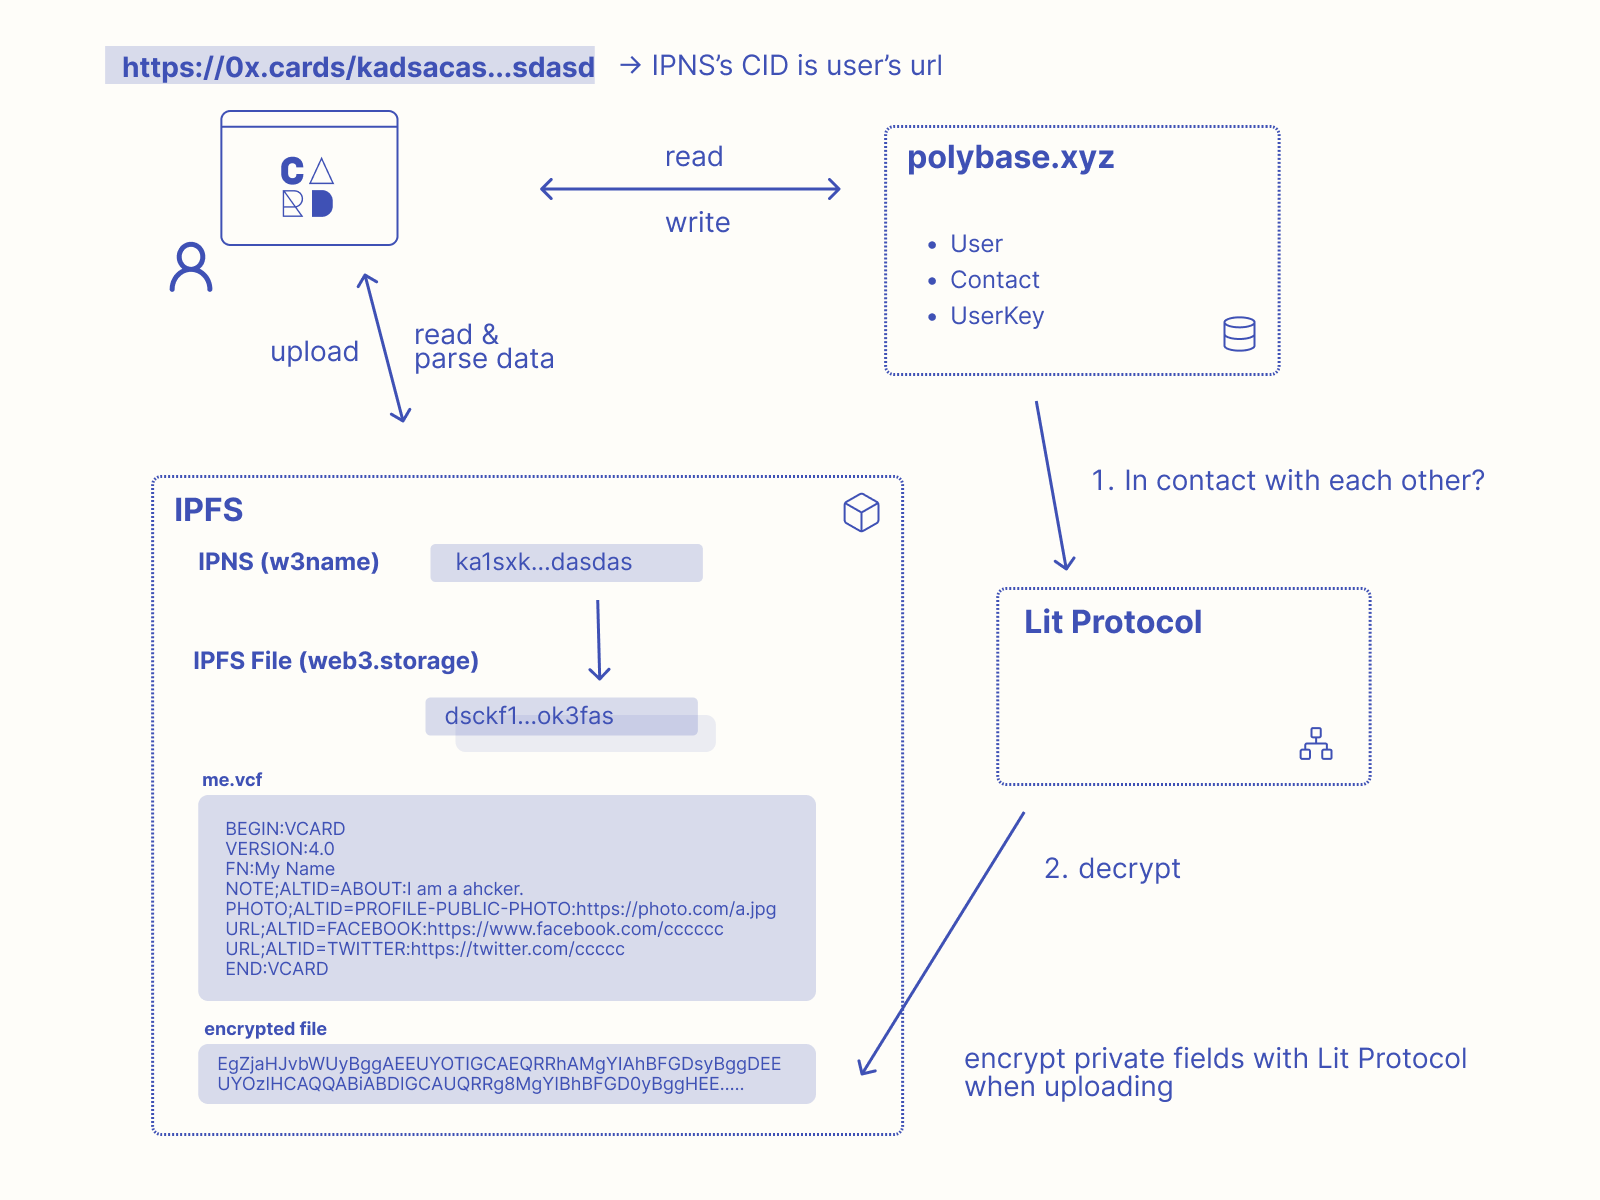
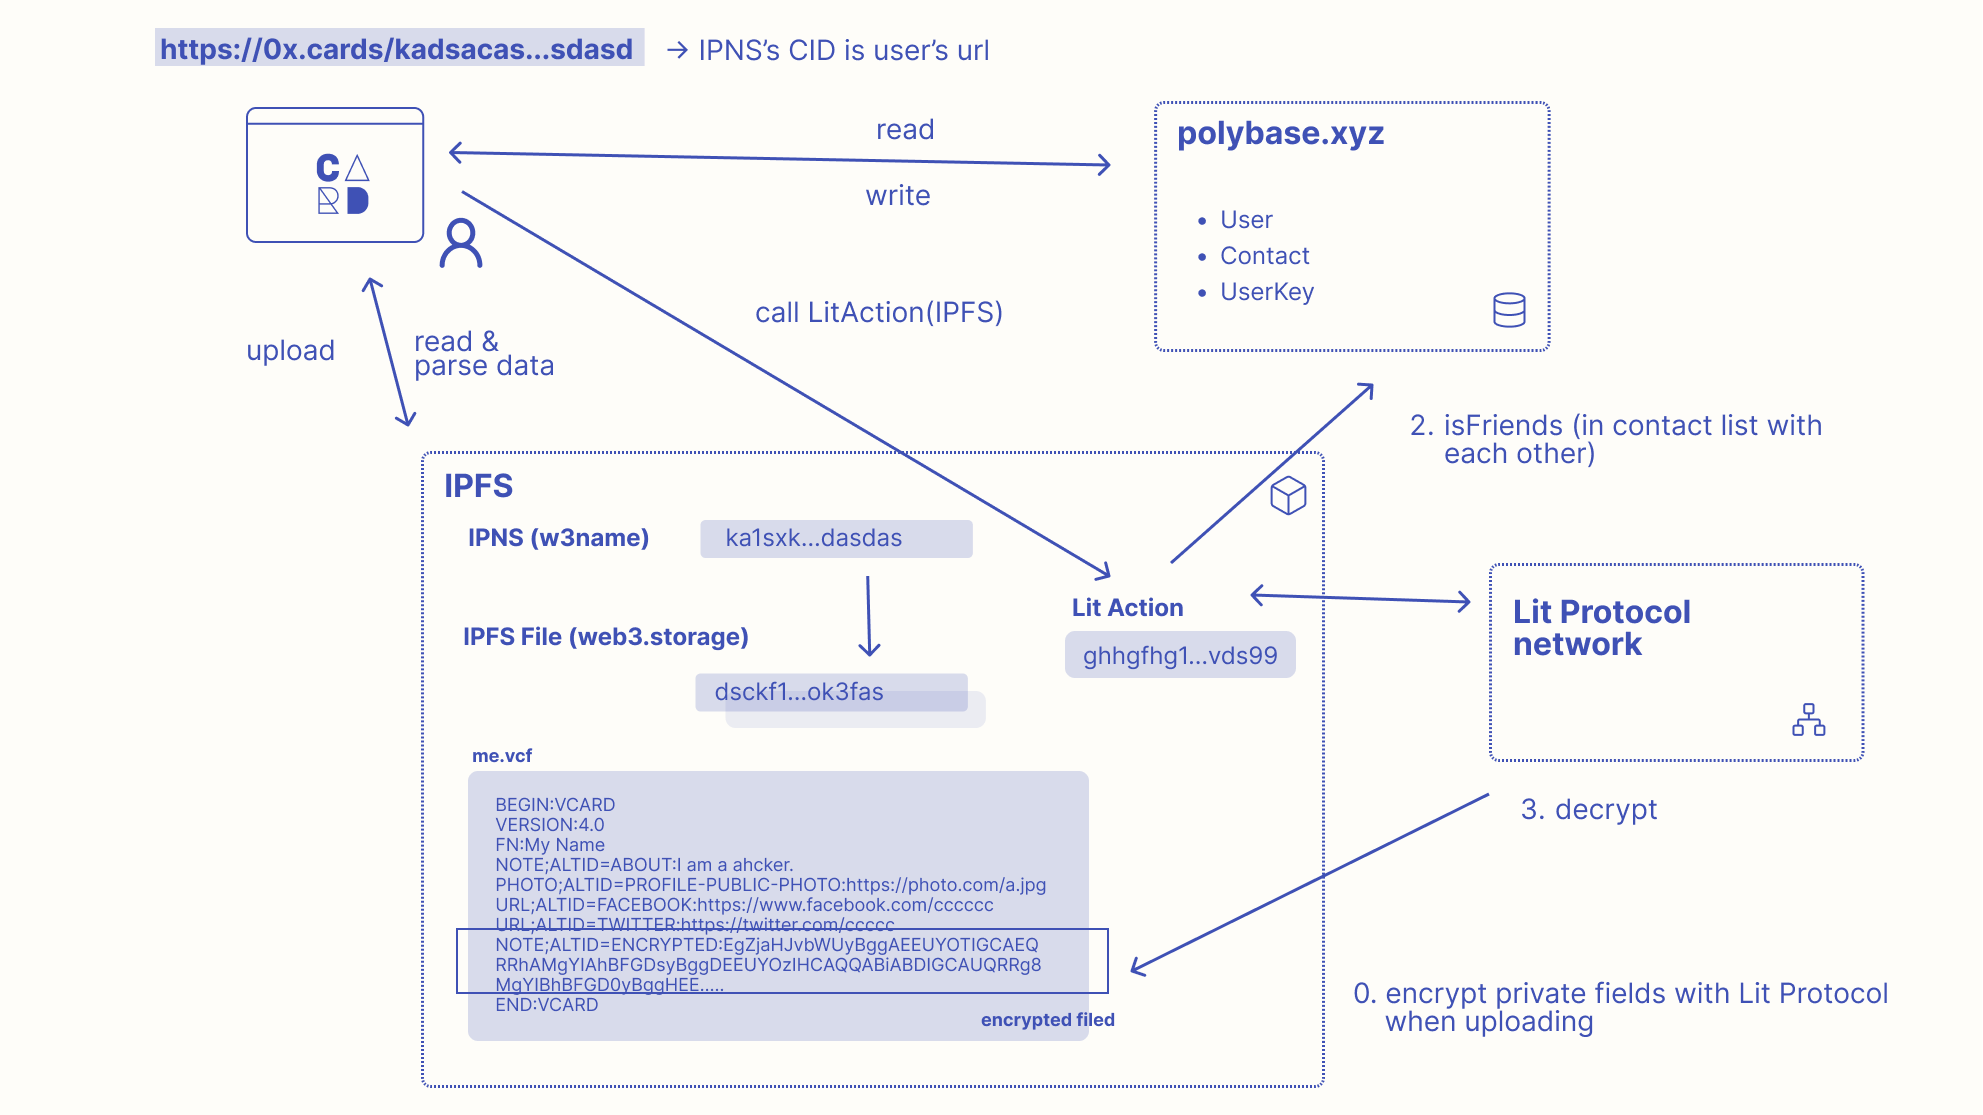
lit action

diff --git a/apps/web/lib/db.ts b/apps/web/lib/db.ts
@@ -4,30 +4,35 @@ import { db } from '@/components/PolybaseWrapper'
 // collection User {
 //   id: string;
 //   cid: string;
-//   name?: string;
+//   name: string;
 //   photo1?: string;
+//   contacts?: string[];
 //   publicKey: PublicKey;
 //
-// constructor (id: string, cid: string, name: string, photo1: string) {
-//   this.id = id;
-//   this.cid = cid;
-//   this.name = name;
-//   if (photo1) {
-//     this.photo1 = photo1;
+//   constructor (id: string, cid: string, name: string, photo1: string) {
+//     this.id = id;
+//     this.cid = cid;
+//     this.name = name;
+//     if (photo1) {
+//       this.photo1 = photo1;
+//     }
+//     this.publicKey = ctx.publicKey;
 //   }
-//   this.publicKey = ctx.publicKey;
-// }
+
+//   setUser (cid: string, name: string, photo1: string) {
+//     if (ctx.publicKey != this.publicKey) {
+//       error('You are not the creator of this record.');
+//     }
+//     this.cid = cid;
+//     this.name = name;
+//     if (photo1) {
+//       this.photo1 = photo1;
+//     }
+//   }
 //
-// setUser (cid: string, name: string, photo1: string) {
-//   if (ctx.publicKey != this.publicKey) {
-//     error('You are not the creator of this record.');
+//   addContact (targetCid: string) {
+//     this.contacts.push(targetCid);
 //   }
-//   this.cid = cid;
-//   this.name = name;
-//   if (photo1) {
-//     this.photo1 = photo1;
-//   }
-// }
 //
 //   del () {
 //     if (ctx.publicKey != this.publicKey) {
@@ -36,6 +41,7 @@ import { db } from '@/components/PolybaseWrapper'
 //     selfdestruct();
 //   }
 // }
+
 const userRef = db.collection('User')
 
 export const getUser = async (id: string): Promise<any> => {
@@ -61,35 +67,12 @@ export const updateUser = async (
   await userRef.record(id).call('setUser', [cid, name, photo1])
 }
 
-// @public
-// collection Contact {
-//   id: string;
-//   cid: string;
-//   targetCid: string;
-//   publicKey: PublicKey;
-//
-//   constructor (cid: string, targetCid: string) {
-//     this.id = cid + '-' +  targetCid;
-//     this.cid = cid;
-//     this.targetCid = targetCid;
-//     this.publicKey = ctx.publicKey;
-//   }
-//
-//   del () {
-//     if (ctx.publicKey != this.publicKey) {
-//       error('You are not the creator of this record.');
-//     }
-//     selfdestruct();
-//   }
-// }
-const contactRef = db.collection('Contact')
-
-export const addUserContact = async (cid: string, targetCid: string) => {
-  await contactRef.create([cid, targetCid])
+export const addUserContact = async (id: string, targetCid: string) => {
+  await userRef.record(id).call('addContact', [targetCid])
 }
 
-export const removeUserContact = async (cid: string, targetCid: string) => {
-  await contactRef.record(`${cid}-${targetCid}`).call('del')
+export const removeUserContact = async (id: string, targetCid: string) => {
+  await userRef.record(id).call('removeContact', [targetCid])
 }
 
 // collection UserKey {

diff --git a/apps/web/components/pages/Settings.tsx b/apps/web/components/pages/Settings.tsx
@@ -11,6 +11,7 @@ import { db } from '@/components/PolybaseWrapper'
 import { sessionAtom } from '@/lib/atoms'
 import { ChevronRight, LogOut, Package } from 'lucide-react'
 import useSession from '@/hooks/useSession'
+import { isFriends } from '@0xcard/lit-action/IPFS.js'
 
 export default function SettingsPage() {
   const [isLoggedIn, loading] = useIsAuthenticated()
@@ -31,6 +32,30 @@ export default function SettingsPage() {
     await auth?.signOut()
     resetSession()
     router.push('/')
+  }
+
+  const test = async () => {
+    const userId = '0xfecdee466589287071b62a05f364983c773c422e'
+    const cid = 'k51qzi5uqu5djs1gnuskf1ybn3okcx4dgkj785pw86q3ofxqhpnzhi1vf2dt2k'
+    const targetUserId =
[1 lines of base64/hex data omitted]
+    const targetCid =
+      'k51qzi5uqu5dgfzkz74vel5diqhl3d1wza9talhf56onp3788xjmyj1ua4f5dw'
+
+    const res = await isFriends(userId, targetUserId, cid, targetCid)
+    console.log('isFriends: ', res)
+  }
+
+  const setContact = async () => {
+    const recordData = await userRef
+      .record(state.userId)
+      .call('setContacts', [
+        [
+          'k51qzi5uqu5djs1gnuskf1ybn3okcx4dgkj785pw86q3ofxqhpnzhi1vf2dt2k',
+          'k51qzi5uqu5dgfzkz74vel5diqhl3d1wza9talhf56onp3788xjmyj1ua4f5dw',
+        ],
+      ])
+    console.log('recordData:  ', recordData)
   }
 
   const List = ({ children }) => (
@@ -87,16 +112,35 @@ export default function SettingsPage() {
                   </span>
                 </button>
               </List>
-
+              <p className="mt-20 text-center">Dev Menu</p>
               <List>
                 <button
                   className="pl-6 pr-5 py-5 w-full flex justify-between"
                   onClick={() => deleteUser()}
                 >
-                  <span className="flex items-center">
-                    <LogOut className="mr-3" />
-                    del
+                  <span className="flex items-center">del</span>
+                  <span>
+                    <ChevronRight />
                   </span>
+                </button>
+              </List>
+              <List>
+                <button
+                  className="pl-6 pr-5 py-5 w-full flex justify-between"
+                  onClick={() => setContact()}
+                >
+                  <span className="flex items-center">Set Contacts</span>
+                  <span>
+                    <ChevronRight />
+                  </span>
+                </button>
+              </List>
+              <List>
+                <button
+                  className="pl-6 pr-5 py-5 w-full flex justify-between"
+                  onClick={() => test()}
+                >
+                  <span className="flex items-center">LitAction</span>
                   <span>
                     <ChevronRight />
                   </span>

diff --git a/apps/web/lib/lit.ts b/apps/web/lib/lit.ts
@@ -3,14 +3,20 @@ import * as LitJsSdk from '@lit-protocol/lit-node-client'
 const chain = 'ethereum'
 
 // Conditions of users with entered did and mutual followings.
-const createAccessConditions = (cid: string, targetCid: string) => {
+const createAccessConditions = (
+  userId: string,
+  targetUserId: string,
+  cid: string,
+  targetCid: string
+) => {
   return [
     {
-      contractAddress: 'ipfs://aaaaa',
+      contractAddress:
+        'https://bafybeiengmxblvgc7byhiksb3ykdnji3px22j4fjglya3lhw6zzua2z4vu.ipfs.w3s.link/IPFS.js',
       standardContractType: 'LitAction',
       chain,
       method: 'isFriends',
-      parameters: [cid, targetCid],
+      parameters: [userId, targetUserId, cid, targetCid],
       returnValueTest: {
         comparator: '=',
         value: 'true',
@@ -21,6 +27,8 @@ const createAccessConditions = (cid: string, targetCid: string) => {
 
 // return encryptedSymmetricKey, EncryptedString
 export const encryptAndSave = async (
+  userId: string,
+  targetUserId: string,
   cid: string,
   targetCid: string,
   input: string
@@ -30,7 +38,12 @@ export const encryptAndSave = async (
   const client = new LitJsSdk.LitNodeClient({ litNetwork: 'serrano' })
   await client.connect()
   const encryptedSymmetricKey = await client.saveEncryptionKey({
-    accessControlConditions: createAccessConditions(cid, targetCid),
+    accessControlConditions: createAccessConditions(
+      userId,
+      targetUserId,
+      cid,
+      targetCid
+    ),
     symmetricKey,
     authSig,
     chain,
@@ -52,7 +65,12 @@ export const decryptAndRead = async (
   const client = new LitJsSdk.LitNodeClient({ litNetwork: 'serrano' })
   await client.connect()
   const symmetricKey = await client.getEncryptionKey({
-    accessControlConditions: createAccessConditions(cid, targetCid),
+    accessControlConditions: createAccessConditions(
+      userId,
+      targetUserId,
+      cid,
+      targetCid
+    ),
     toDecrypt: encryptedSymmetricKey,
     chain,
     authSig,

diff --git a/packages/litAction/IPFS.js b/packages/litAction/IPFS.js
@@ -1,18 +1,26 @@
-export const isFriends = async (cid, targetCid) => {
-  const cid1 = cid + '-' + targetCid
-  const cid2 = targetCid + '-' + cid
+export const isFriends = async (userId, targetUserId, cid, targetCid) => {
+  const urlBase =
+    'https://testnet.polybase.xyz/v0/collections/pk%2F0x78270b82619ae45a456613d40b07d297bb50b15fa7bad88a2eab0335fa98a82fa7f206c3c6f0ebfc5a250b2d9803935dec4eebf69eedfb1cbd28bfe7bd006711%2F0xcard%2FUser/records/'
   try {
-    const url1 =
-      'https://testnet.polybase.xyz/v0/collections/Collection/records/pk%2F0x78270b82619ae45a456613d40b07d297bb50b15fa7bad88a2eab0335fa98a82fa7f206c3c6f0ebfc5a250b2d9803935dec4eebf69eedfb1cbd28bfe7bd006711%2F0xCARD%2FContact%2Frecords%2F' +
-      cid1
-    const url2 =
-      'https://testnet.polybase.xyz/v0/collections/Collection/records/pk%2F0x78270b82619ae45a456613d40b07d297bb50b15fa7bad88a2eab0335fa98a82fa7f206c3c6f0ebfc5a250b2d9803935dec4eebf69eedfb1cbd28bfe7bd006711%2F0xCARD%2FContact%2Frecords%2F' +
-      cid2
+    const url1 = urlBase + userId
+    const url2 = urlBase + targetUserId
+    console.log('urls: ', url1, url2)
     const [resp1, resp2] = await Promise.all([
       await fetch(url1).then(response => response.json()),
       await fetch(url2).then(response => response.json()),
     ])
-    const result = !!resp1?.data && !!resp2?.data
+    console.log('responces: ', resp1, resp2)
+    const result =
+      resp1?.data?.contacts.includes(targetCid) &&
+      resp2?.data?.contacts.includes(cid)
+
+    console.log(
+      'res: ',
+      resp1?.data?.contacts,
+      resp2?.data?.contacts,
+      resp1?.data?.contacts.includes(targetCid),
+      resp2?.data?.contacts.includes(cid)
+    )
     return result
   } catch (e) {
     console.log('error in litAction: ', e)

diff --git a/apps/web/hooks/useSession.tsx b/apps/web/hooks/useSession.tsx
@@ -39,6 +39,7 @@ export default function useSession() {
             ...session,
             loaded: true,
             cid: res.cid,
+            contacts: res?.contacts ?? [],
           })
         }
       }
@@ -68,27 +69,27 @@ export default function useSession() {
     }
   }
 
-  const addContact = async (cid: string, targetCid: string) => {
+  const addContact = async (targetCid: string) => {
     try {
       setSession({
         ...session,
-        contacts: [...session.contacts, cid],
+        contacts: [...session.contacts, targetCid],
       })
-      await addUserContact(cid, targetCid)
+      await addUserContact(session.userId, targetCid)
       toast({ description: 'Added to contacts.' })
     } catch (e) {
-      console.log('error - addContacts: ', e)
+      console.log('error - addContact: ', e)
       throw e
     }
   }
 
-  const removeContact = async (cid: string, targetCid: string) => {
+  const removeContact = async (targetCid: string) => {
     try {
       setSession({
         ...session,
-        contacts: session.contacts.filter((c: string) => c !== cid),
+        contacts: session.contacts.filter((c: string) => c !== targetCid),
       })
-      await removeUserContact(cid, targetCid)
+      await removeUserContact(session.userId, targetCid)
       toast({ description: 'Remove from contacts.' })
     } catch (e) {
       console.log('error - removeContacts: ', e)

diff --git a/apps/web/components/pages/User.tsx b/apps/web/components/pages/User.tsx
@@ -50,14 +50,14 @@ export default function UserPage() {
       {session?.userId && session.cid != cid ? (
         session.contacts.includes(cid) ? (
           <button
-            onClick={() => removeContact(session.cid, cid)}
+            onClick={() => removeContact(cid)}
             className="fixed right-4 bottom-3 z-50 rounded-full h-16 w-16 flex justify-center items-center text-background bg-primary border-4 border-background "
           >
             <UserMinus2 />
           </button>
         ) : (
           <button
-            onClick={() => addContact(session.cid, cid)}
+            onClick={() => addContact(cid)}
             className="fixed right-4 bottom-3 z-50 rounded-full h-16 w-16 flex justify-center items-center text-background bg-primary border-4 border-background "
           >
             <UserPlus2 />

diff --git a/apps/web/components/pages/Top.tsx b/apps/web/components/pages/Top.tsx
@@ -45,10 +45,10 @@ export default function TopPage() {
           </Link>
         </div>
       </div>
-      <div className="flex md:flex-1 flex-auto items-center justify-center bg-primary text-background p-8 overflow-hidden">
+      <div className="flex md:flex-1 flex-auto items-center justify-center bg-primary text-background px-8 overflow-hidden">
         <div>
           <Tabs defaultValue="public" className="w-[240]">
-            <TabsList className="mb-2 w-full bg-gray-200/50 text-primary rounded-sm px-1 py-0.5 h-9">
+            <TabsList className="mb-4 w-full bg-gray-200/50 text-primary rounded-sm px-1 py-0.5 h-9">
               <TabsTrigger
                 value="public"
                 className="flex-1 data-[state=active]:bg-gray-200/90 data-[state=active]:text-primary rounded-sm text-xs"

diff --git a/packages/litAction/test.ts b/packages/litAction/test.ts
@@ -1,9 +1,13 @@
 import { isFriends } from './IPFS.js'
 
 // set data
-const cid = ''
-const targetCid = ''
+const cid = 'k51qzi5uqu5djs1gnuskf1ybn3okcx4dgkj785pw86q3ofxqhpnzhi1vf2dt2k'
+const targetCid =
+  'k51qzi5uqu5dgfzkz74vel5diqhl3d1wza9talhf56onp3788xjmyj1ua4f5dw'
+const userId = '0xfecdee466589287071b62a05f364983c773c422e'
+const targetUserId =
[1 lines of base64/hex data omitted]
 
 // exec test
-const res = await isFriends(cid, targetCid)
+const res = await isFriends(userId, targetUserId, cid, targetCid)
 console.log('isFriends: ', res)

diff --git a/apps/web/components/PolybaseWrapper.tsx b/apps/web/components/PolybaseWrapper.tsx
@@ -5,7 +5,7 @@ import { Auth } from '@polybase/auth'
 
 export const db = new Polybase({
   defaultNamespace:
[2 lines of base64/hex data omitted]
 })
 
 export const auth = typeof window !== 'undefined' ? new Auth() : null

diff --git a/apps/web/components/form/ProfileForm.tsx b/apps/web/components/form/ProfileForm.tsx
@@ -142,7 +142,7 @@ export default function ProfileForm() {
           index={8}
         />
         <h3 className="mt-8 mb-6 font-mono text-xl border-l-8 px-3">
-          Other Links
+          Other Links (TBD)
         </h3>
         <CustomInputField placeholder="https://example.com" index={0} />
         <CustomInputField placeholder="https://example.com" index={1} />

diff --git a/packages/lib/const.ts b/packages/lib/const.ts
@@ -1,6 +1,6 @@
 export const siteUrl: string =
   process.env.NODE_ENV === 'development'
-    ? 'https://localhost:3000'
+    ? 'http://localhost:3000'
     : ('https://0x.cards' as const)
 export const siteTitle: string = '0xCARD' as const
 export const siteDescription: string =
